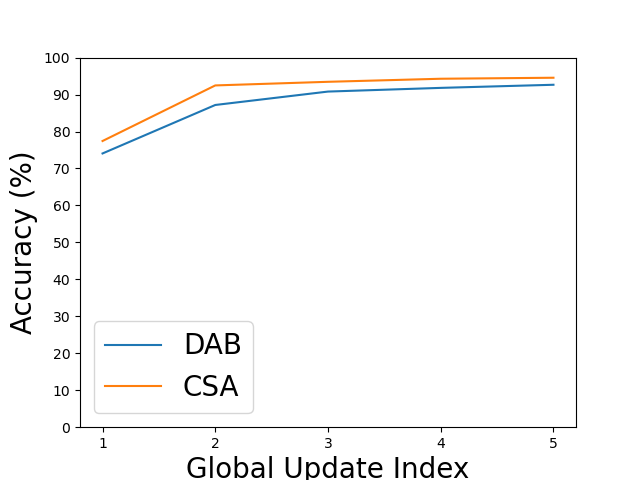
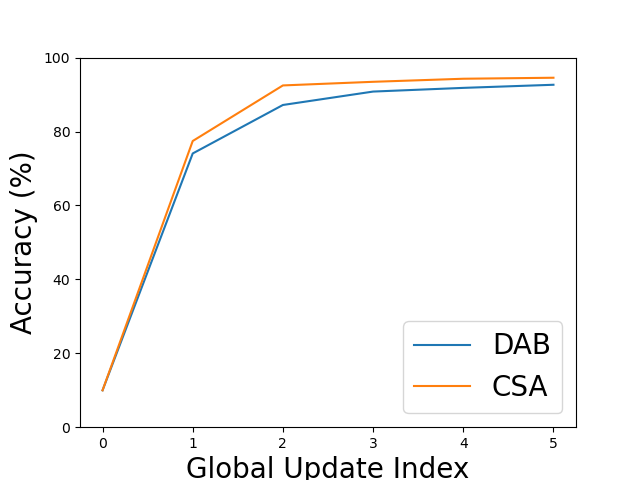
pushing old changes

diff --git a/plot_results.py b/plot_results.py
@@ -28,10 +28,10 @@ def transpose(in_list):
 [baseline_loss, baseline_acc] = transpose(read_file(storage_folder+baseline_files[0]))
 
 num_iters = len(main_loss)
-acc_yticks = [i/10 for i in range(11)]
-acc_ylabels = [str(10*i) for i in range(11)]
-xticks = [i for i in range(1, num_iters)]
-x = [i for i in range(1, num_iters)]
+acc_yticks = [i/10 for i in range(0, 11, 2)]
+acc_ylabels = [str(10*i) for i in range(0, 11, 2)]
+xticks = [i for i in range(0, num_iters)]
+x = [i for i in range(0, num_iters)]
 folder = './results/'
 font_size=20
 
@@ -40,24 +40,24 @@ plt.title('big title')
 # plt.subplot(2, 2, 1)
 # plt.title('loss, D=15s')
 plt.figure()
-plt.plot(x, main_loss[1: num_iters], label='DAB')
-plt.plot(x, baseline_loss[1: num_iters], label='CSA')
+plt.plot(x, main_loss[0: num_iters], label='DAB')
+plt.plot(x, baseline_loss[0: num_iters], label='CSA')
 plt.xlabel('Global Update Index', size=font_size)
 plt.ylabel('Loss', size=font_size)
 plt.legend(prop={'size': font_size})
-plt.xticks(xticks)
+plt.xticks(xticks, size=font_size*1/2)
 plt.savefig(folder+'loss_k2.png')
 
 # plt.subplot(2, 2, 3)
 # plt.title('accuracy, D=15s')
 plt.figure()
-plt.plot(x, main_acc[1: num_iters], label='DAB')
-plt.plot(x, baseline_acc[1: num_iters], label='CSA')
+plt.plot(x, main_acc[0: num_iters], label='DAB')
+plt.plot(x, baseline_acc[0: num_iters], label='CSA')
 plt.xlabel('Global Update Index', size=font_size)
 plt.ylabel('Accuracy (%)', size=font_size)
 plt.legend(prop={'size': font_size})
-plt.yticks(acc_yticks, acc_ylabels)
-plt.xticks(xticks)
+plt.yticks(acc_yticks, acc_ylabels, size=font_size*1/2)
+plt.xticks(xticks, size=font_size*1/2)
 plt.savefig(folder+'acc_k2.png')
 
 [main_loss, main_acc] = transpose(read_file(storage_folder+main_files[1]))
@@ -66,24 +66,24 @@ plt.savefig(folder+'acc_k2.png')
 # plt.subplot(2, 2, 2)
 # plt.title('loss, D=30s')
 plt.figure()
-plt.plot(x, main_loss[1: num_iters], label='DAB')
-plt.plot(x, baseline_loss[1: num_iters], label='CSA')
+plt.plot(x, main_loss[0: num_iters], label='DAB')
+plt.plot(x, baseline_loss[0: num_iters], label='CSA')
 plt.xlabel('Global Update Index', size=font_size)
 plt.ylabel('Loss', size=font_size)
 plt.legend(prop={'size': font_size})
-plt.xticks(xticks)
+plt.xticks(xticks, size=font_size*1/2)
 plt.savefig(folder+'loss_k4.png')
 
 # plt.subplot(2, 2, 4)
 # plt.title('accuracy, D=30s')
 plt.figure()
-plt.plot(x, main_acc[1: num_iters], label='DAB')
-plt.plot(x, baseline_acc[1: num_iters], label='CSA')
+plt.plot(x, main_acc[0: num_iters], label='DAB')
+plt.plot(x, baseline_acc[0: num_iters], label='CSA')
 plt.xlabel('Global Update Index', size=font_size)
 plt.ylabel('Accuracy (%)', size=font_size)
 plt.legend(prop={'size': font_size})
-plt.yticks(acc_yticks, acc_ylabels)
-plt.xticks(xticks)
+plt.yticks(acc_yticks, acc_ylabels, size=font_size*1/2)
+plt.xticks(xticks, size=font_size*1/2)
 plt.savefig(folder+'acc_k4.png')
 
 # plt.tight_layout()

diff --git a/plot_benchmarking_errors.py b/plot_benchmarking_errors.py
@@ -42,24 +42,15 @@ data = [SB_2, SB_4, SB_6, SB_8]
 flops_data = [flops for d in data]
 
 x = [2, 4, 6, 8]
-y_ticks = [i for i in range(13)]
+y_ticks = [i for i in range(0, 15, 2)]
 
-plt.plot(x, data, label='Subset Benchmark')
-plt.plot(x, flops_data, label='FLOPS')
+plt.plot(x, data, color='red', label='SB')
+plt.plot(x, flops_data, color='green', label='FLOPS')
 
 plt.xticks(ticks=x, size=font_size)
 plt.yticks(ticks=y_ticks, size=font_size)
 plt.ylabel('Average Runtime Benchmarking Error (%)', size=font_size)
-plt.xlabel('Benchmark Size (shards)', size=font_size)
+plt.xlabel('Benchmark Size (data shards)', size=font_size)
 
 plt.legend(prop={'size': font_size})
 plt.show()
-
-
-
-
-
-
-
-
-
